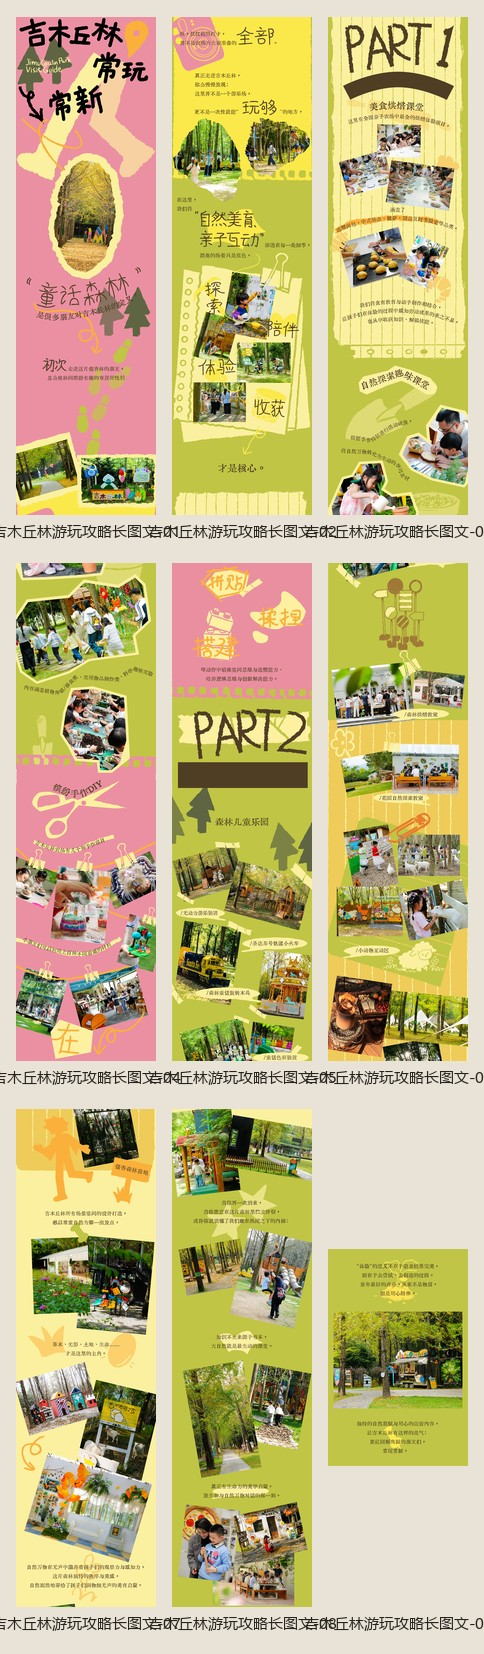
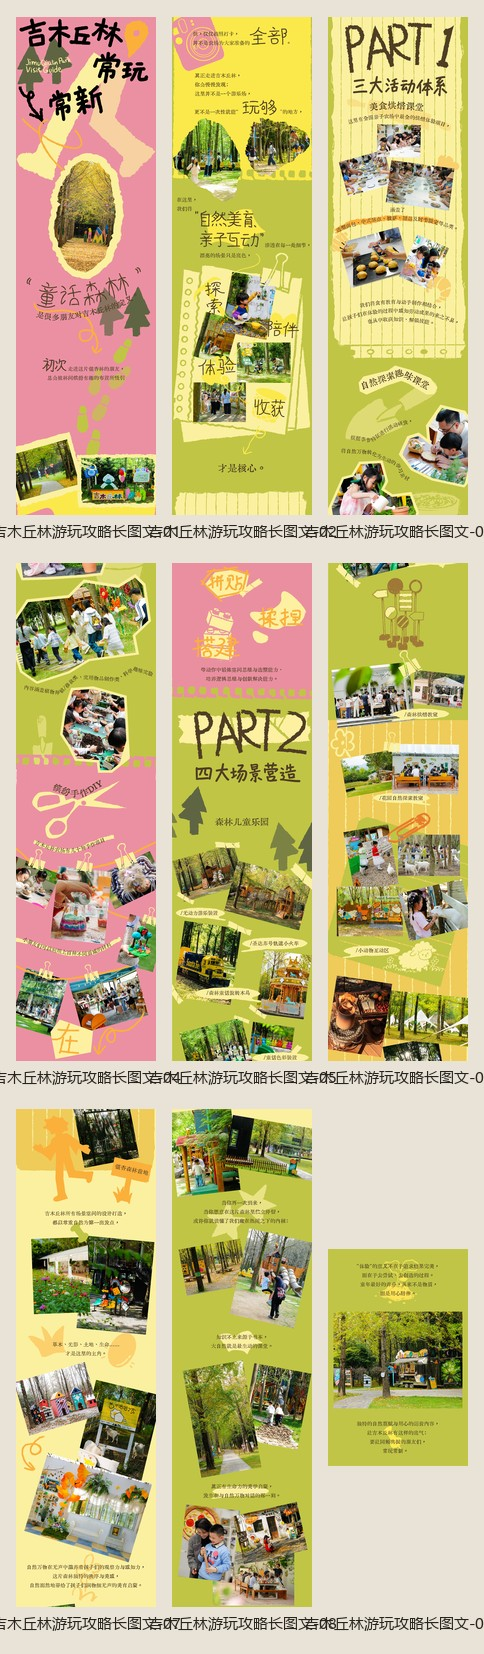
Refresh play guide from latest version 3 artwork

diff --git a/index.html b/index.html
@@ -34,13 +34,13 @@
   <header>
     <div class="brand"><strong>吉木丘林 · 游玩攻略</strong><span>9 张连续长图 · 建议上下滑动阅读</span></div>
     <div class="actions">
-      <a href="./assets/guide-long-web.jpg?v=20261113-152820" target="_blank" rel="noopener">查看长图</a>
-      <a href="./assets/guide-long-web.jpg?v=20261113-152820" download>下载长图</a>
+      <a href="./assets/guide-long-web.jpg?v=20261113-155616" target="_blank" rel="noopener">查看长图</a>
+      <a href="./assets/guide-long-web.jpg?v=20261113-155616" download>下载长图</a>
     </div>
   </header>
   <main>
-    <div class="stage" id="stage"><img id="longImage" src="./assets/guide-long-web.jpg?v=20261113-152820" alt="吉木丘林游玩攻略连续长图"></div>
-    <p class="tip">共 9 页，已按文件名顺序无缝拼接<br>1,080 × 32,389 px 网页版长图<br>更新于 2026-11-13 15:28</p>
+    <div class="stage" id="stage"><img id="longImage" src="./assets/guide-long-web.jpg?v=20261113-155616" alt="吉木丘林游玩攻略连续长图"></div>
+    <p class="tip">共 9 页，已按文件名顺序无缝拼接<br>1,080 × 32,389 px 网页版长图<br>更新于 2026-11-13 15:56</p>
   </main>
   <div class="zoom" aria-label="缩放控制">
     <button type="button" id="minus" aria-label="缩小">−</button>
